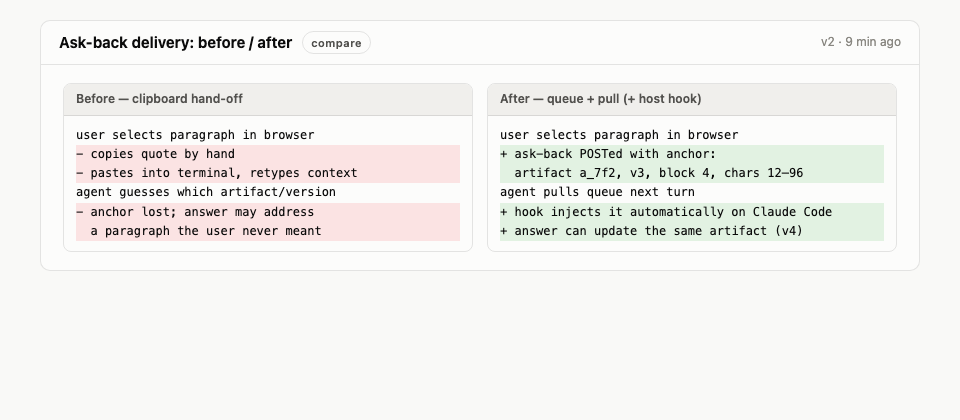
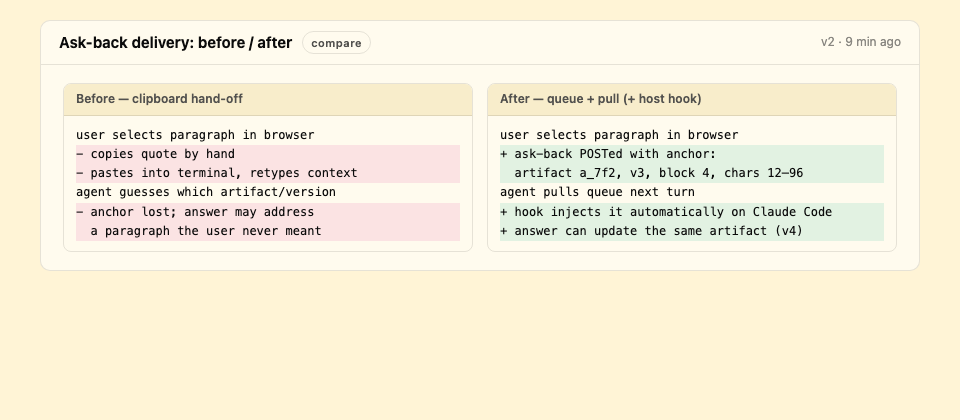
feat(theme): burnt orange + vanilla brand primaries (user direction)
Light scheme: vanilla #FFF4D6 page, vanilla-white #FFFBEE card surface,
#F8EDCB callout/code insets. Warm accent is burnt orange #FC6C26 in both
schemes (dark surfaces stay dark). Categorical series slots unchanged,
re-validated against the new light surface (six checks pass). All four
docs/qa/m2-*.png captures refreshed on the new theme.

diff --git a/src/canvas/styles.css b/src/canvas/styles.css
@@ -1,10 +1,12 @@
-/* Canvas theme — values lifted from the judged prototype
+/* Canvas theme — structure and mark conventions from the judged prototype
    (prototype/canvas-vocabulary/PROTOTYPE-canvas-mock.html). One clean
-   register (ADR-0009); light/dark via prefers-color-scheme. */
+   register (ADR-0009); light/dark via prefers-color-scheme.
+   Brand primaries set by user direction (2026-07-14): vanilla #FFF4D6 as
+   the light page, burnt orange #FC6C26 as the warm accent in both schemes. */
 :root {
   color-scheme: light;
-  --page: #f9f9f7;
-  --surface-1: #fcfcfb;
+  --page: #fff4d6;
+  --surface-1: #fffbee;
   --text-primary: #0b0b0b;
   --text-secondary: #52514e;
   --muted: #898781;
@@ -19,11 +21,11 @@
   --series-3: #9a5bd2;
   --series-4: #c85c8e;
   --delta-good: #006300;
-  --callout-bg: #f0efec;
-  --code-bg: #f0efec;
+  --callout-bg: #f8edcb;
+  --code-bg: #f8edcb;
   --add-bg: #e2f2e2;
   --del-bg: #fbe3e3;
-  --accent-warm: #eb6834;
+  --accent-warm: #fc6c26;
   --dot-live: #0ca30c;
   --dot-dead: #898781;
 }
@@ -49,7 +51,7 @@
     --code-bg: #111110;
     --add-bg: #14330f;
     --del-bg: #3d1414;
-    --accent-warm: #d95926;
+    --accent-warm: #fc6c26;
     --dot-live: #0ca30c;
   }
 }

diff --git a/.scratch/visual-chat-v1/issues/07-dashboard-component.md b/.scratch/visual-chat-v1/issues/07-dashboard-component.md
@@ -83,3 +83,10 @@ POINTS_MAX = 200 (src/shared/constraints.ts), enforced in both the
 declared JSON schema (maxItems) and the hand validator (rejection path
 /charts/N/series/M/points), per the PRD's bound-large-inputs doctrine.
 Boundary tests: 200 accepted, 201 rejected.
+
+2026-07-14 — brand palette update per user direction: vanilla #FFF4D6 is
+the light page (surface #FFFBEE, insets #F8EDCB) and burnt orange
+#FC6C26 the warm accent in both schemes. Categorical series slots are
+unchanged and re-validated against the new light surface (six checks:
+PASS, same series-2 contrast WARN relieved by direct labels). The
+m2-dashboard screenshots were re-captured on the new theme.

diff --git a/.scratch/visual-chat-v1/issues/08-compare-component.md b/.scratch/visual-chat-v1/issues/08-compare-component.md
@@ -66,3 +66,7 @@ AC4 + light/dark verified by headless-Chromium captures of the real
 renderer+stylesheet: docs/qa/m2-compare-light.png and
 docs/qa/m2-compare-dark.png (960px, side-by-side); a 520px capture was
 inspected during QA and shows the panes stacked.
+
+2026-07-14 — m2-compare screenshots re-captured after the user-directed
+brand palette update (vanilla page + burnt orange accent); add/del tints
+unchanged and still distinct on the new vanilla-tinted surfaces.
